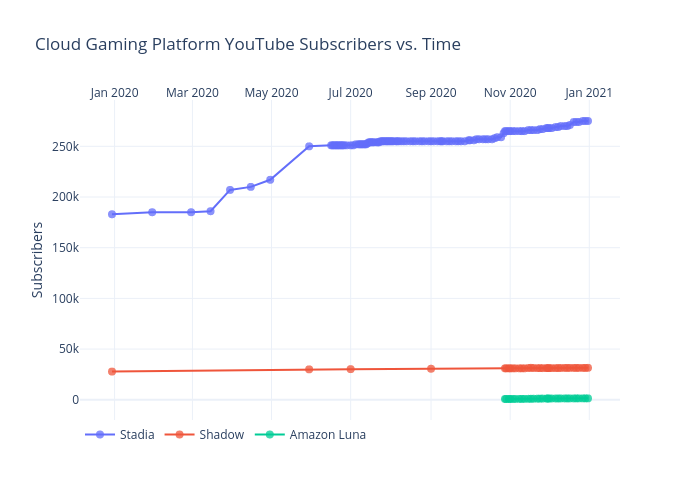
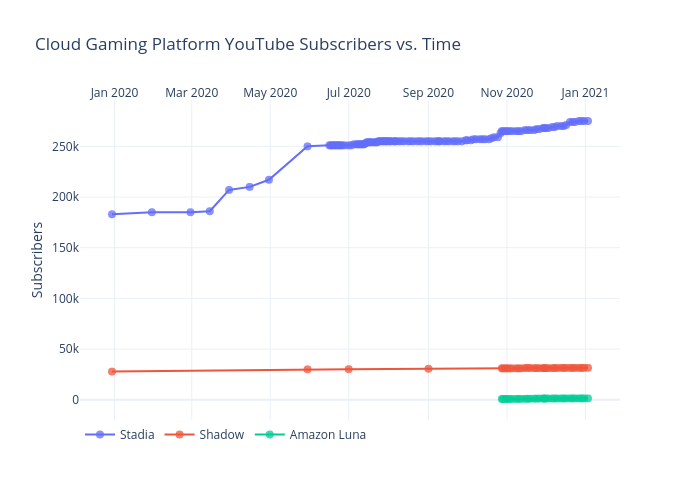
Add files via upload

diff --git a/youtube_platforms/figure.js b/youtube_platforms/figure.js
@@ -276,6 +276,7 @@ var figure = {
                 "274000",
                 "275000",
                 "275000",
+                "275000",
                 "275000"
             ],
             "marker": {
@@ -562,6 +563,7 @@ var figure = {
                 "31400",
                 "31400",
                 "31400",
+                "31500",
                 "31500"
             ],
             "marker": {
@@ -848,6 +850,7 @@ var figure = {
                 "1350",
                 "1360",
                 "1360",
+                "1370",
                 "1370"
             ],
             "marker": {
@@ -867,8 +870,8 @@ var figure = {
             "side": "top",
             "type": "date",
             "range": [
-                "2019-12-07 07:24:21.5471",
-                "2021-01-22 16:35:38.4529"
+                "2019-12-07 02:57:15.3473",
+                "2021-01-25 21:02:44.6527"
             ],
             "title": {
                 "text": ""
